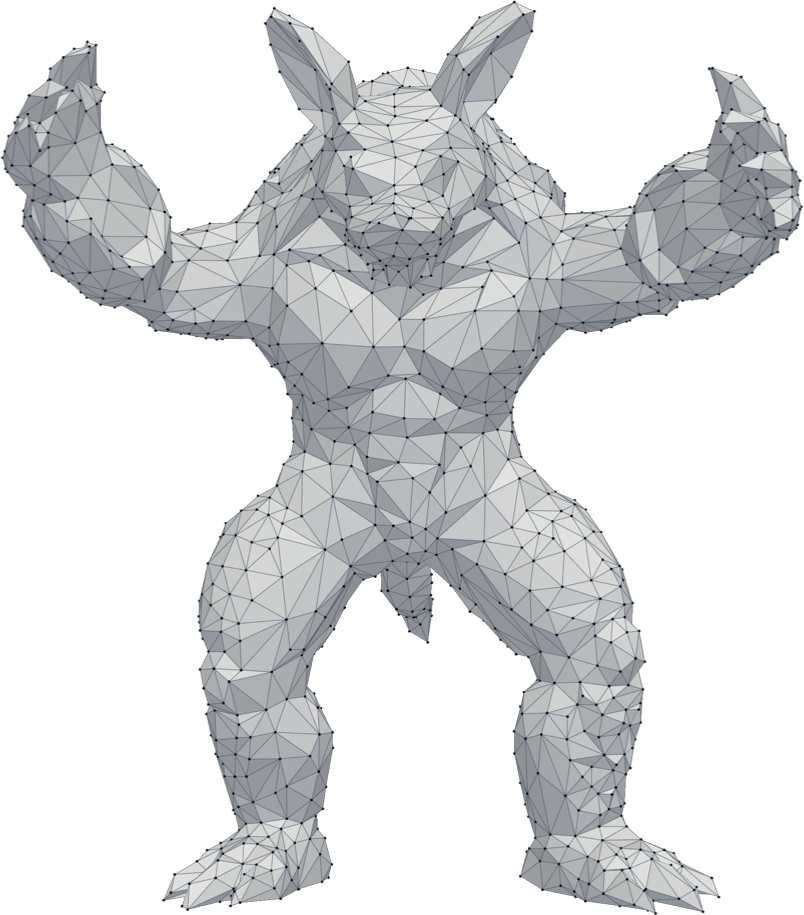
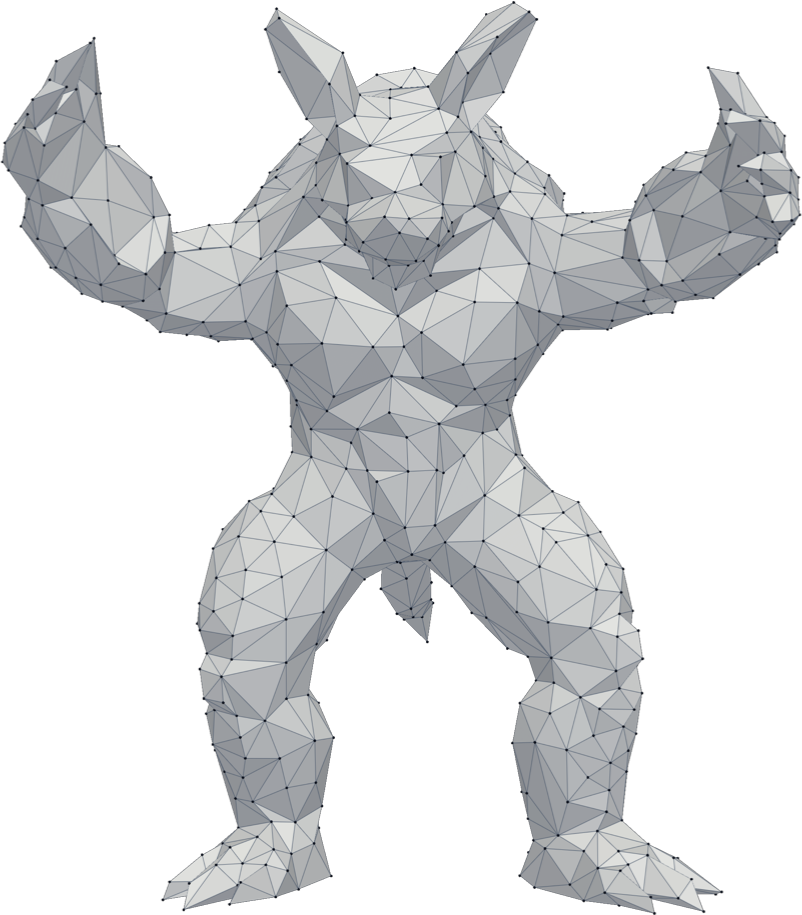
Slide 25: colour only the vertices for the function reveal, larger balls
Coarser mesh (1700 faces) so the discrete sampling reads clearly; the function
reveal now leaves the surface grey and colours only the vertex balls (size 22).

Changed region(s): [[0.0, 0.0, 1.0, 1.0], [0.3741, 0.3672, 0.4052, 0.3978]]

diff --git a/gen/gen_29_discretization.py b/gen/gen_29_discretization.py
@@ -17,7 +17,7 @@ def build():
     import pyvista as pv
     from PIL import Image
 
-    V, F = load_mesh(MPZ14 / "armadillo.obj", target_faces=3500)
+    V, F = load_mesh(MPZ14 / "armadillo.obj", target_faces=1700)
     V[:, 0] = -V[:, 0]; V[:, 2] = -V[:, 2]          # face the camera
     faces = faces_pv(F)
     CAM = "xy"
@@ -60,16 +60,15 @@ def build():
                render_points_as_spheres=True)
     setup(p); save(p, "disc_mesh.png")
 
-    # 3) a scalar function = values at the vertices (colour the field, keep the
-    # sample points visible as dark dots)
+    # 3) a scalar function = values at the vertices: colour ONLY the vertex
+    # points (the surface stays neutral grey), with large balls
     p = pv.Plotter(off_screen=True, window_size=(1000, 1000))
     p.set_background([1, 1, 1, 0])
-    surf = pv.PolyData(V, faces); surf["f"] = f
-    p.add_mesh(surf, scalars="f", cmap="coolwarm", clim=(-cap, cap),
-               smooth_shading=True, show_scalar_bar=False,
-               ambient=0.34, diffuse=0.72, specular=0.12)
-    p.add_mesh(pv.PolyData(V), color="#0f172a", point_size=4,
-               render_points_as_spheres=True)
+    p.add_mesh(pv.PolyData(V, faces), color="#d6d8dc", smooth_shading=True,
+               ambient=0.45, diffuse=0.6, specular=0.05)
+    pts = pv.PolyData(V); pts["f"] = f
+    p.add_mesh(pts, scalars="f", cmap="coolwarm", clim=(-cap, cap),
+               point_size=22, render_points_as_spheres=True, show_scalar_bar=False)
     setup(p); save(p, "disc_func.png")
 
 
